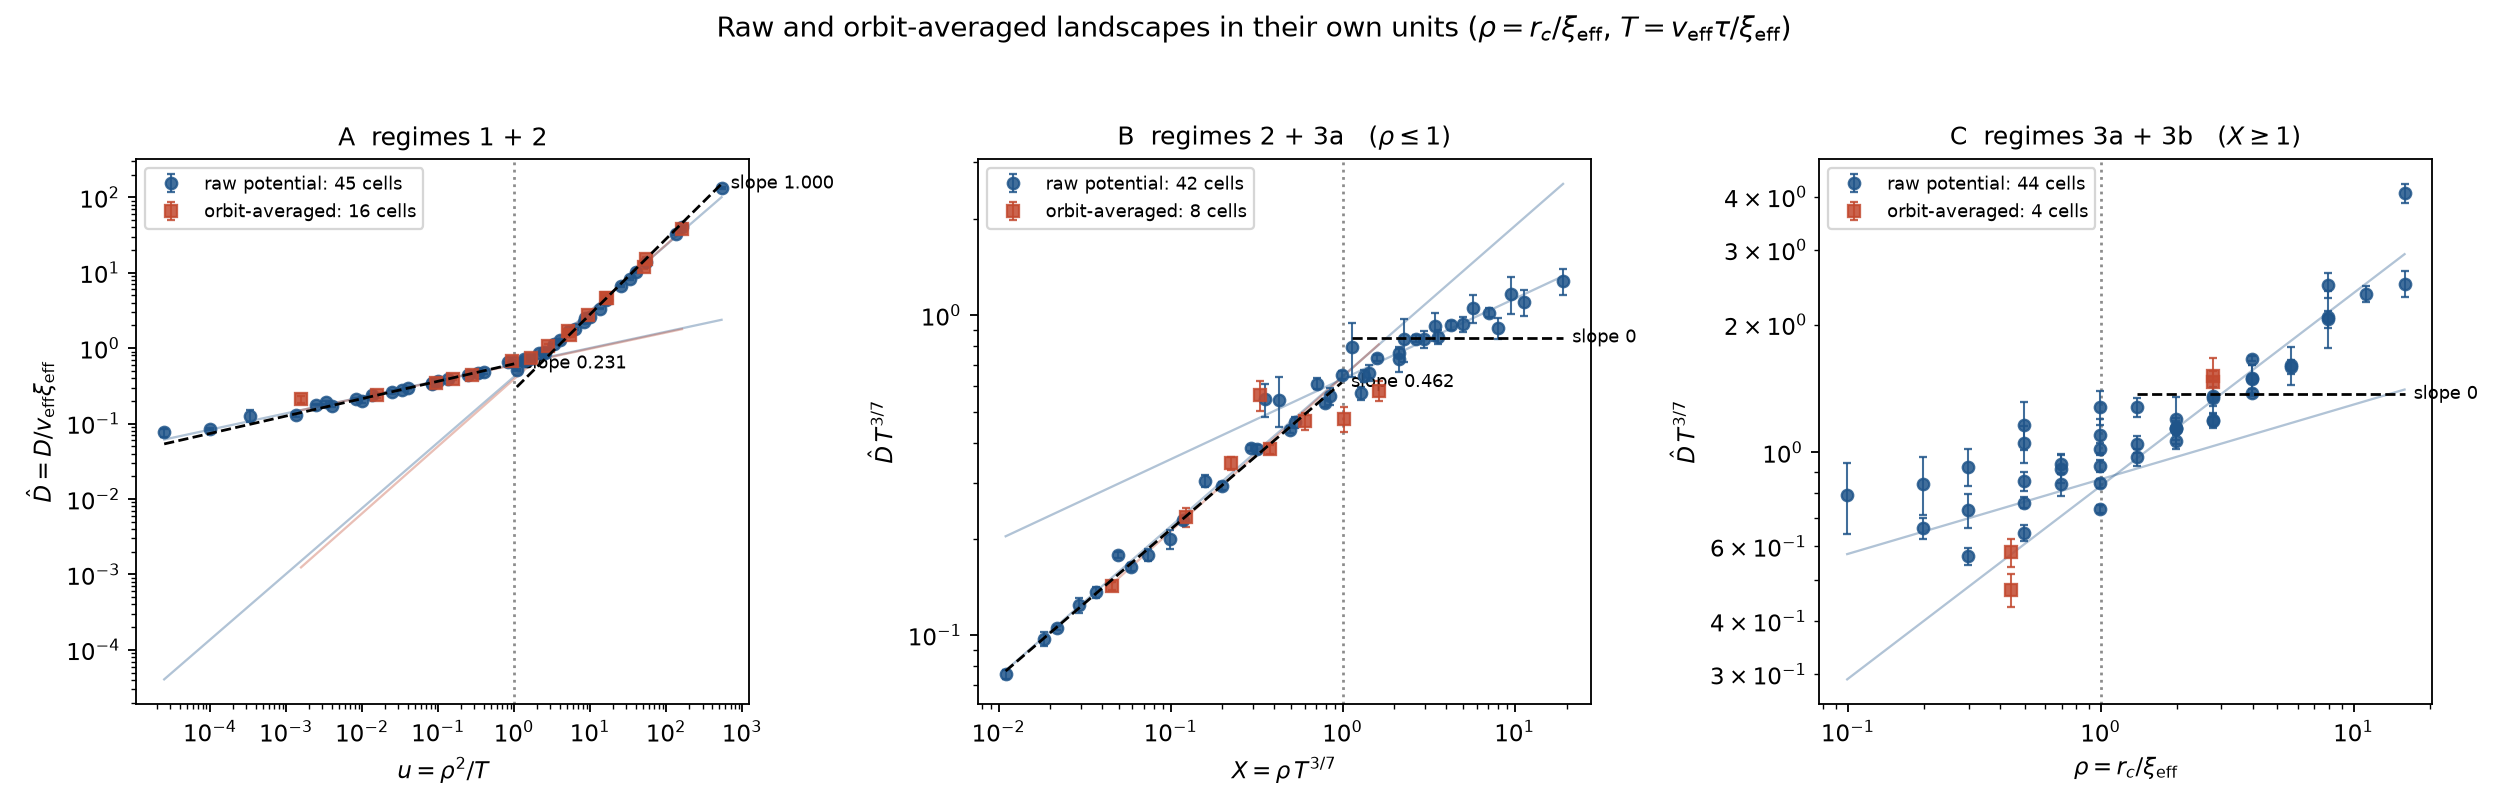
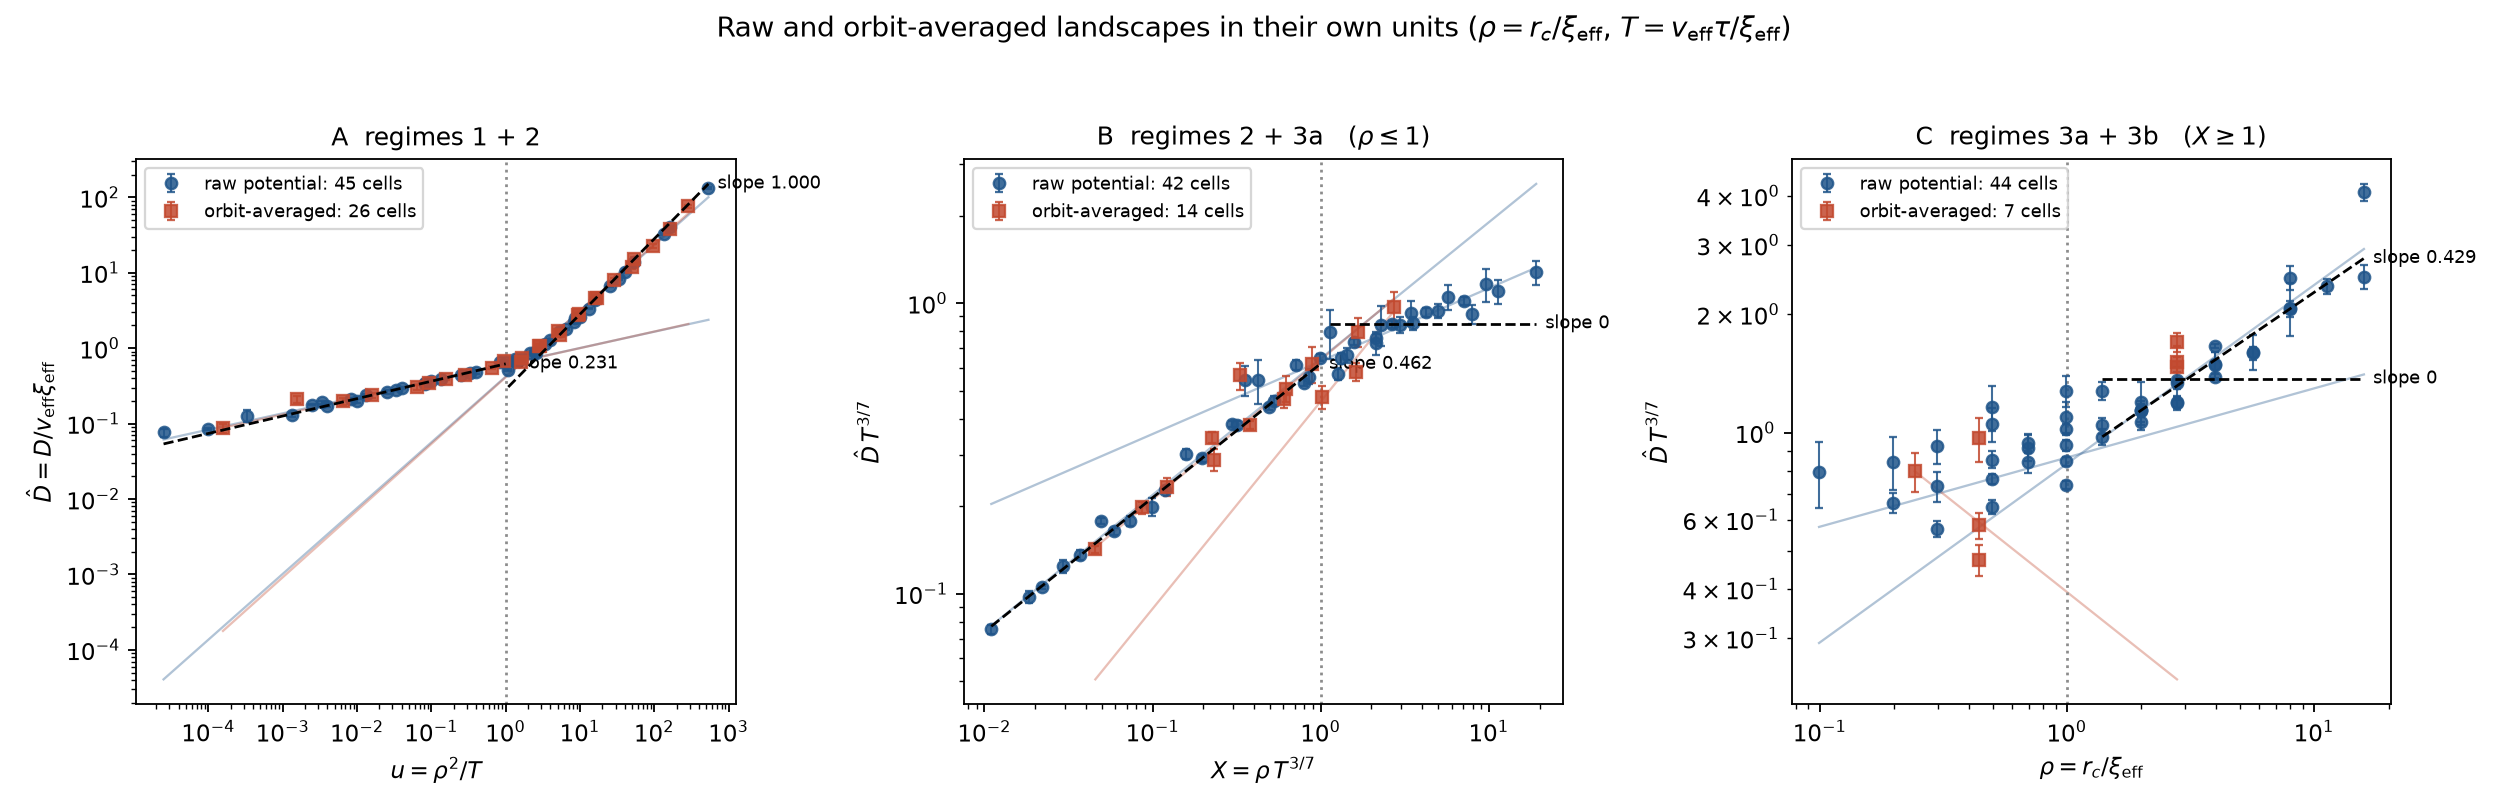
Regime 3b is a one-variable law: D ~ (r_c/v tau)^(3/7)
Claude-Session: https://claude.ai/code/session_014ZMGn4Vy6NtGocsp7JQc7r

diff --git a/scripts/analyse_regimes.py b/scripts/analyse_regimes.py
@@ -45,10 +45,15 @@ RAW_V, RAW_XI = 0.99374, 1.0063
 
 # predicted exponents (a, b) of Dh ~ T^a rho^b in each regime
 PRED = {"1": (-1.0, 2.0), "2": (-3 / 13, 6 / 13), "3a": (-3 / 7, 0.0),
-        "3b": (-3 / 7, None)}          # 3b's rho exponent is not predicted
+        "3b": (-3 / 7, 3 / 7)}
+# 3b is not in the notes.  Empirically Dh depends only on rho/T = r_c/(v tau),
+# i.e. it is regime 3 with the tube width taken at coarse-graining scale r_c
+# instead of xi:  w = xi (L/xi)^(-3/7)  ->  xi (L/r_c)^(-3/7).
 LABEL = {"1": "1  free walk", "2": "2  small kick, Levy contours",
          "3a": "3a  contour-limited, $r_c<\\xi$",
          "3b": "3b  contour-limited, $r_c>\\xi$"}
+# the fourth collapse: regime 3b alone, against its single variable
+WVAR = r"$w=\rho/T=r_c/v_{\rm eff}\tau$"
 
 
 def load(paths, ll_tol=0.15):
@@ -193,7 +198,7 @@ def main():
 
     guide = {"A": [("1", 1.0), ("2", 3 / 13)],
              "B": [("2", 6 / 13), ("3a", 0.0)],
-             "C": [("3a", 0.0), ("3b", None)]}
+             "C": [("3a", 0.0), ("3b", 3 / 7)]}
     axis = {"A": (r"$u=\rho^2/T$", r"$\hat D=D/v_{\rm eff}\xi_{\rm eff}$",
                   "A  regimes 1 + 2"),
             "B": (r"$X=\rho\,T^{3/7}$", r"$\hat D\,T^{3/7}$",
@@ -255,10 +260,35 @@ def main():
                     b, eb, _ = res[g]
                     pb = {"A": {"1": 1.0, "2": 3 / 13},
                           "B": {"2": 6 / 13, "3a": 0.0},
-                          "C": {"3a": 0.0, "3b": None}}[which].get(g)
+                          "C": {"3a": 0.0, "3b": 3 / 7}}[which].get(g)
                     ps = "--" if pb is None else f"{pb:+.3f}"
                     print(f"     {name:<16} regime {g:<3} slope "
                           f"{b:+.3f} +- {eb:.3f}   predicted {ps}")
+    print("\nregime 3b as a one-parameter law  Dh = C (r_c / v_eff tau)^p:")
+    for name, d, _, _ in sets:
+        lab = regime(d, args.margin)
+        m = lab == "3b"
+        if m.sum() < 4:
+            print(f"  {name:<16} only {int(m.sum())} cells")
+            continue
+        w = d["rho"][m] / d["T"][m]
+        pw, epw, amp = powerfit(w, d["Dh"][m], d["Eh"][m])
+        C = d["Dh"][m] / w ** (3 / 7)
+        print(f"  {name:<16} n={int(m.sum()):3d}   p = {pw:+.4f} +- {epw:.4f} "
+              f"(3/7 = {3/7:.4f})   C = {C.mean():.3f} "
+              f"(spread {100*C.std(ddof=1)/C.mean():.1f}%)")
+    print("regime 3a amplitude  Dh T^(3/7) = C:")
+    for name, d, _, _ in sets:
+        lab = regime(d, args.margin)
+        m = lab == "3a"
+        if m.sum() < 3:
+            print(f"  {name:<16} only {int(m.sum())} cells")
+            continue
+        C = d["Dh"][m] * d["T"][m] ** (3 / 7)
+        print(f"  {name:<16} n={int(m.sum()):3d}   C = {C.mean():.3f} +- "
+              f"{C.std(ddof=1)/np.sqrt(m.sum()):.3f}  "
+              f"(spread {100*C.std(ddof=1)/C.mean():.1f}%)")
+
     json.dump({f"{k[0]}|{k[1]}": (None if v is None else list(map(float, v)))
                for k, v in fits.items()},
               open(os.path.join("data", "regime_fits.json"), "w"), indent=1)
